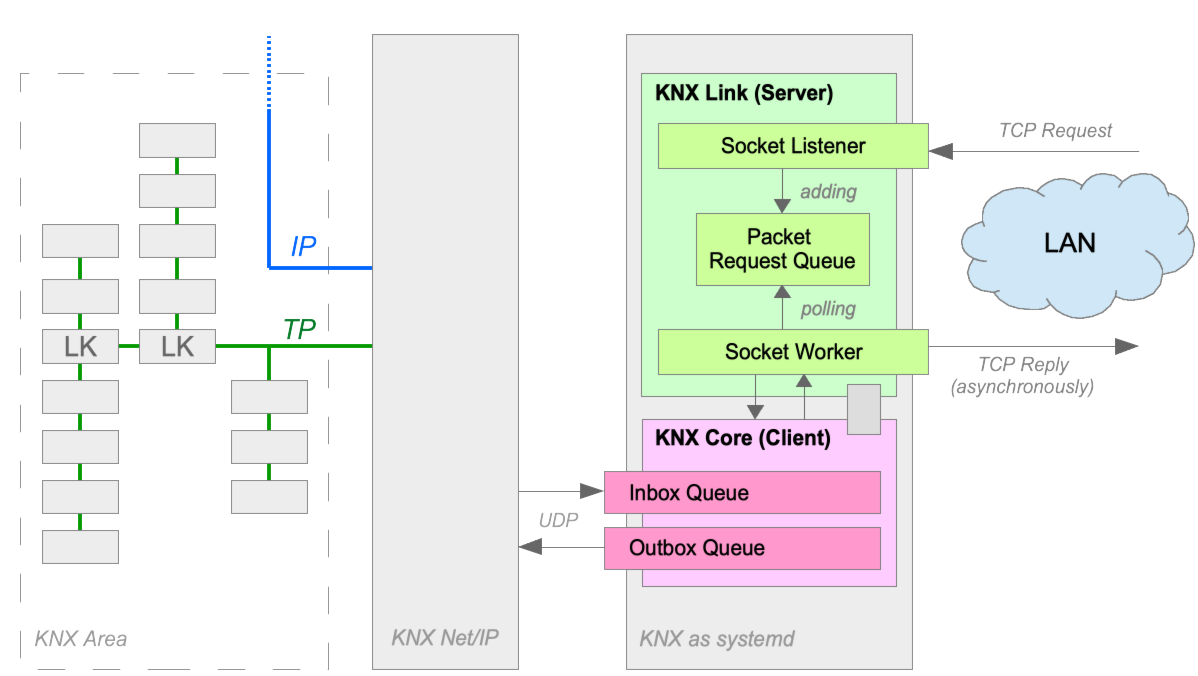
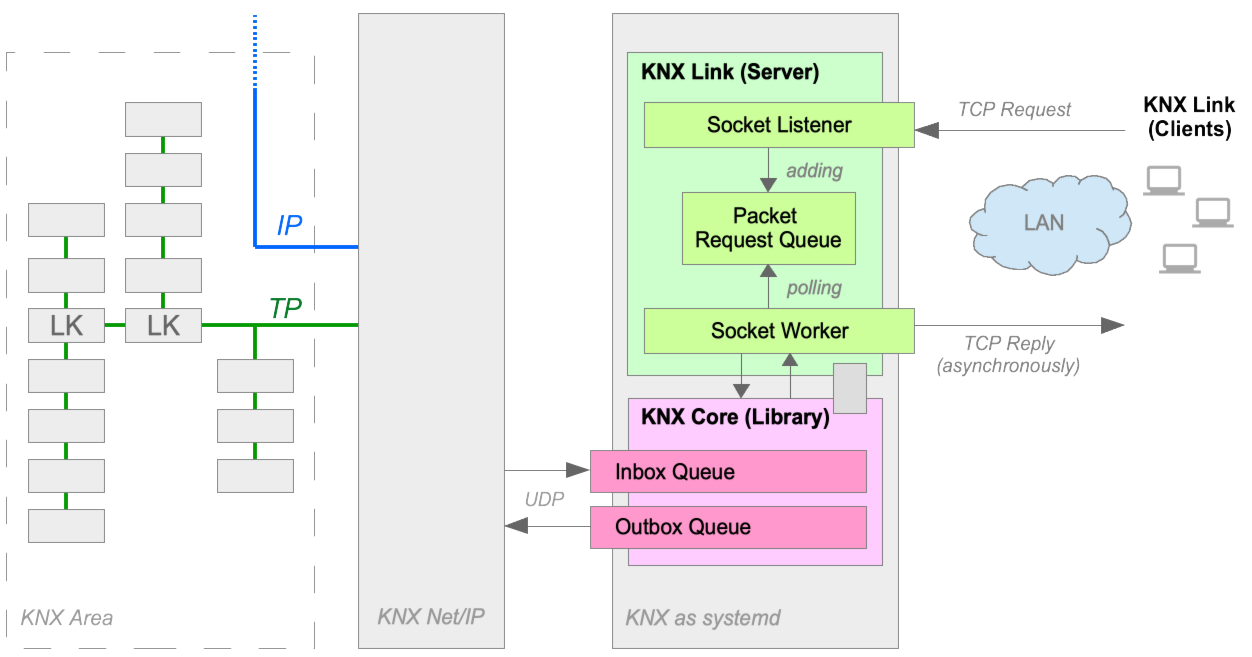
Update readme.md (1st draft, wip)

diff --git a/README.md b/README.md
@@ -1,8 +1,6 @@
-# KNX Link
 
 This git repo has been splitted into several git repositories (see below). This space will be reserved for planned project to provide a native CLI tool that communicates with KNX Core as daemon.
 
----
 
 ### [KNX Core](https://github.com/pitschr/knx-core)
 KNX Core - A Java library for KNX Net/IP communication
@@ -21,3 +19,69 @@ Test suite for _KNX Logic_ and _KNX Logic Components_
 
 ### [KNX Demo: KNX Monitor for TTY / Terminal](https://github.com/pitschr/knx-demo-tty-monitor)
 A demo application for KNX Core. Available as a container image (docker, podman).
+
+----
+
+[![Build Status](https://github.com/pitschr/knx-link/workflows/build/badge.svg?branch=main)](https://github.com/pitschr/knx-link/actions)
+[![Coverage Status](https://coveralls.io/repos/github/pitschr/knx-link/badge.svg?branch=main)](https://coveralls.io/github/pitschr/knx-link?branch=main)
+[![License: GPL v3](https://img.shields.io/badge/License-GPLv3-blue.svg)](https://www.gnu.org/licenses/gpl-3.0)
+
+# KNX Link
+
+KNX Link comes with a **server** and a **client**. The KNX Link server establish a connection to your 
+KNX Net/IP device using the [knx-core](https://github.com/pitschr/knx-core) and acts as a KNX gateway.
+
+The purpose of the KNX Link server and client is to allow you to send requests to KNX network with almost 
+no delay. The *KNX Link server* is running as a `systemd` service and keeps the connection with your KNX 
+Net/IP device and is taking care of the most heavy tasks while the *KNX Link client* is a light-weight 
+command-line tool with its short life cycle.
+
+![Architecture](./assets/readme_architecture.png)
+
+### Prerequisites
+
+* **Host**
+    * A dedicated machine based on Linux (e.g. CentOS)
+    * [curl](https://man7.org/linux/man-pages/man1/curl.1.html) for downloading the files for installation
+    * [systemctl](https://man7.org/linux/man-pages/man1/systemctl.1.html) for setup for systemd service
+* **Java 11+**
+    * Make sure that you have Java 11+ installed and running as Java 11+
+
+## How to install?
+
+Execute and follow the instructions:
+```
+bash <(curl -s https://raw.githubusercontent.com/pitschr/knx-link/main-initial-commit/install.sh)
+```
+
+What it is doing? It is downloading the file [install.sh](./install.sh) I prepared for you and will prompt
+some questions where you have to reply with 'yes' or 'no'. For example, it will ask if the KNX Link should 
+be installed as a systemd service. Optionally, if you are using a `firewalld` (`firewall-cmd`) then it will 
+also ask if a firewall rule should be configured; here it will open the UDP port `3671` which is registered
+for KNX communication.
+
+In nutshell, the steps of [install.sh](./install.sh) script are:
+1. Creating a technical user `knx` for systemd service
+1. Downloading the `knx-link-<version>.jar` file to `/opt/knx-link-<version>`
+1. Install `knx.service` to start and keep KNX Link server running (e.g. after reboot)
+1. (Optional) Create a `knx` firewall rule for your `firewalld`
+1. Check if the systemd service is running 
+1. Check if the port of KNX Link server is open
+
+## How to run the client (after installation of KNX Link server)?
+
+Next step is to download and install a client that sends requests to your KNX Link server 
+which acts like as a gateway to your KNX network.
+
+## KNX Link Configuration
+
+The configuration for KNX Link server can be found at the path: `/opt/knx-link-<version>/server.cfg`
+
+| Config Key                 | Default&nbsp;Value | Description |
+| -------------------------- | ------------- | ----------- |
+| `knx.mode`                 | `tunneling` | Defines the mode of communication how the KNX Link server should communicate with the KNX Net/IP device.<br><br>**Allowed values:**<br>`tunneling` or `routing` |
+| `knx.nat`                  | `false` | Defines if the Network Address Translation (NAT) should be used. NAT is can be used for `tunneling` mode only. If `routing` mode is used then it has no effect and is ignored.<br><br>**Allowed values:**<br>`false` or `true` |
+| `knx.address`              | `0.0.0.0`<br>(Auto&nbsp;Discovery) | If your KNX Net/IP device has a static IP address you can set the IP address that allows a faster start-up as it will skip the auto-discovery process. This setting might be also useful if you have more than one KNX Net/IP device and you want to specific one, otherwise the auto-discovery will choose a KNX Net/IP device in behalf of you otherwise.<br><br>**Allowed Pattern:**<br>`[0-255].[0-255].[0-255].[0-255]` | 
+| `knx.port`                 | `3671` | Set only if your KNX Net/IP device is using a port number that differs from the officially registered KNX port `3671` at IANA.<br>If 'knx.address' is 'auto', then KNX port has no effect and will be ignored.<br><br>**Allowed Port Range:**<br>`1024 - 65535` | 
+| `server.port`              | `3672` | Set only if you want to use a different port for your KNX Link server that opens a server socket channel for your clients. This is not the port communicating with your KNX Net/IP device.<br><br>**Allowed Port Range:**<br>`1024 - 65535` |
+| `server.allowed.addresses` | `127.0.0.1`<br>(localhost) | This setting is used to accept requests from your clients that are from a trusted IP address. Default is `127.0.0.1` which means it will only accept requests which are originated from the same machine. You can define multiple IP addresses, define them comma-separated. Example: `10.0.1.2,192.168.1.4,192.168.2.8`.<br><br>**Allowed Pattern:**<br>`[0-255].[0-255].[0-255].[0-255]` |
